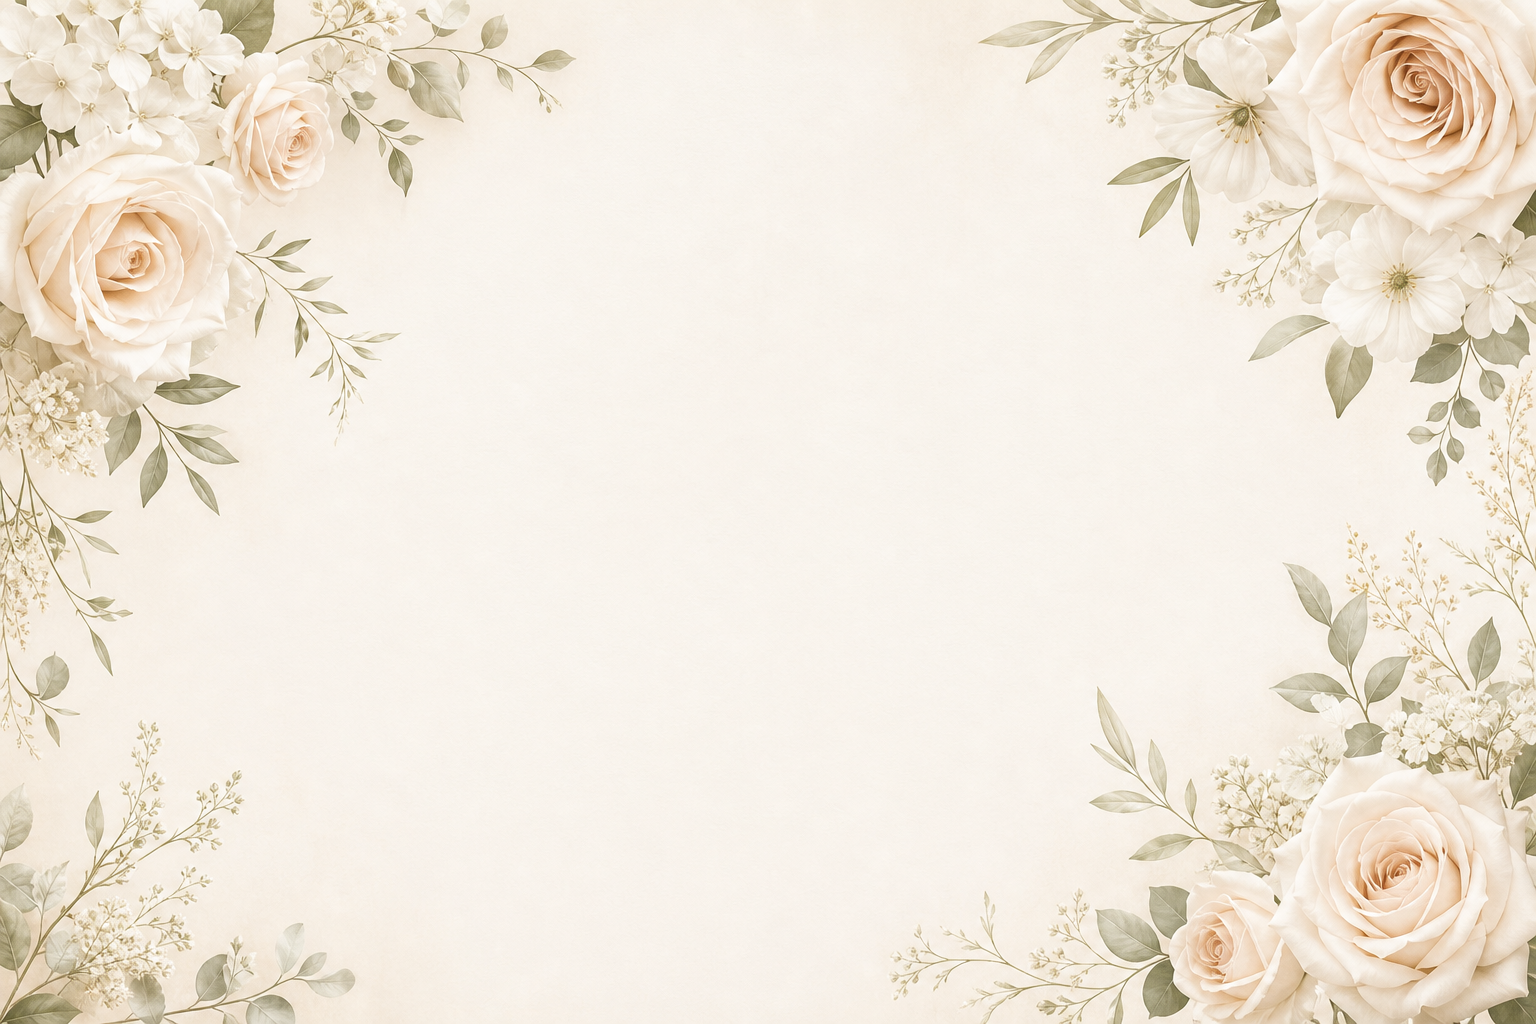
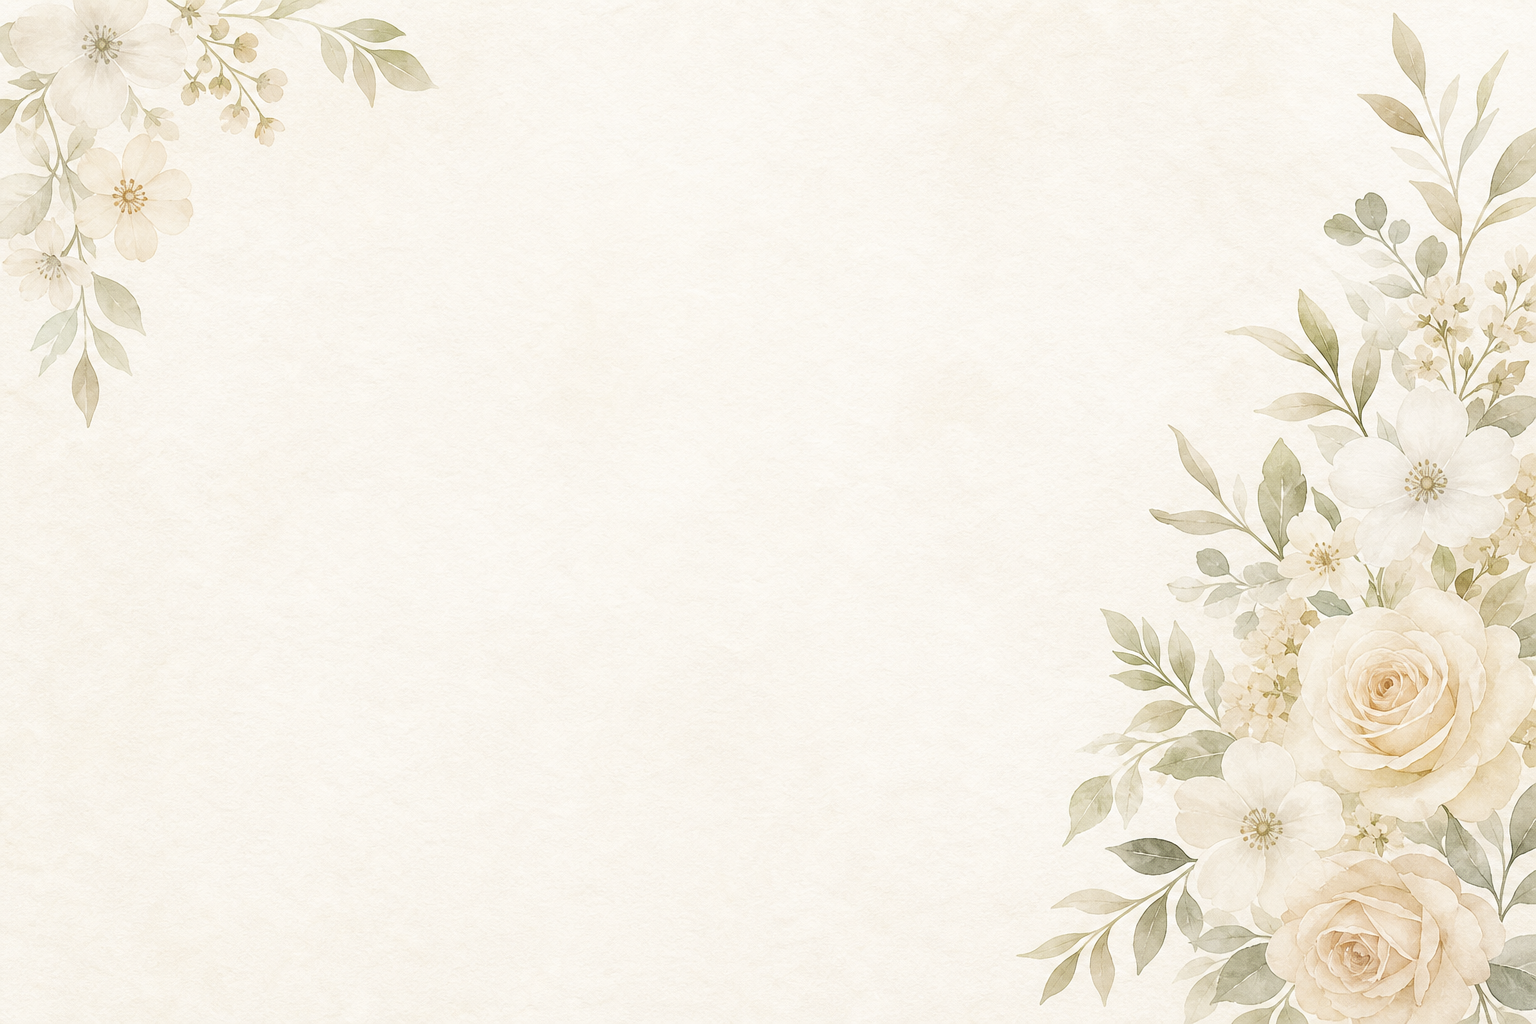
refine(gallery): improve botanical backdrop focal crop
Adjust the balanced section floral framing to bias the gallery artwork toward the right and refresh the gallery background asset for a cleaner decorative composition.

Changed region(s): [[0.5625, 0.0, 1.0, 1.0], [0.0, 0.0, 0.375, 0.7188], [0.0, 0.7188, 0.25, 1.0]]

diff --git a/components/ui/Section.tsx b/components/ui/Section.tsx
@@ -27,7 +27,7 @@ const botanicalImageClasses: Record<BotanicalVariant, string> = {
   upperLeft: "object-cover object-[18%_top] opacity-[0.22] sm:opacity-[0.26] md:opacity-[0.3]",
   lowerRight: "object-cover object-[84%_bottom] opacity-[0.22] sm:opacity-[0.26] md:opacity-[0.3]",
   lowerLeft: "object-cover object-[16%_bottom] opacity-[0.22] sm:opacity-[0.26] md:opacity-[0.3]",
-  balanced: "object-cover object-center opacity-[0.2] sm:opacity-[0.24] md:opacity-[0.28]",
+  balanced: "object-cover object-[72%_center] opacity-[0.22] sm:opacity-[0.26] md:opacity-[0.3]",
 };
 
 const botanicalImageSources: Record<BotanicalVariant, string> = {
